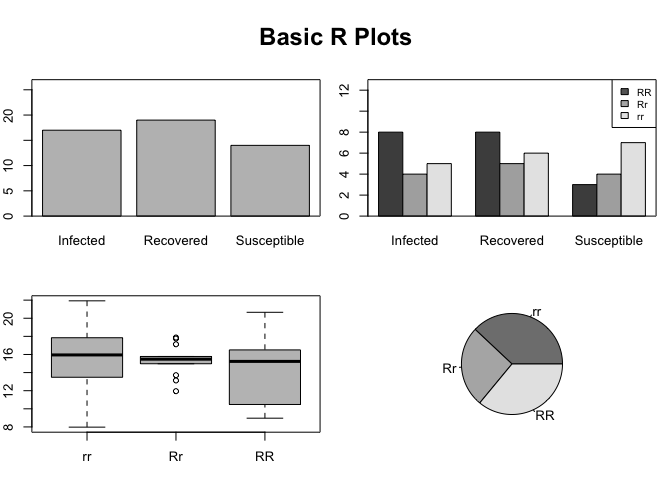
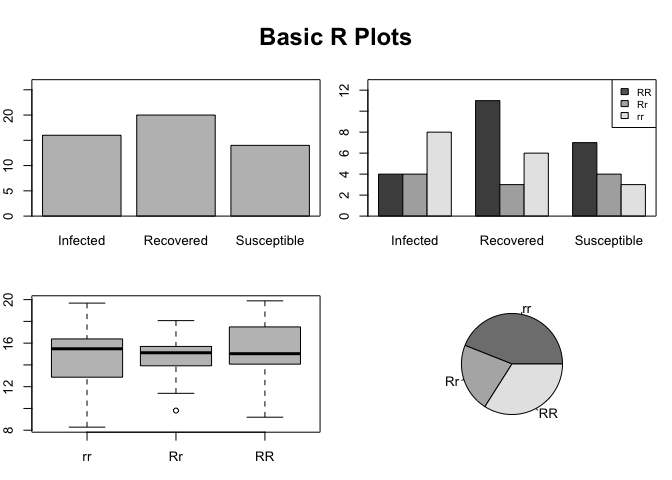
welcome back

diff --git a/Advanced_R/welcome_back.md b/Advanced_R/welcome_back.md
@@ -333,7 +333,7 @@ I
 
     ## InfStatus
     ##    Infected   Recovered Susceptible 
-    ##          17          19          14
+    ##          16          20          14
 
 ``` r
 # Now let's make a random sample of 3 genotypes (RR, Rr, and rr)
@@ -344,7 +344,7 @@ G
 
     ## Genotype
     ## rr Rr RR 
-    ## 19 13 18
+    ## 22 11 17
 
 ``` r
 #show genotype and infected status as a table 
@@ -353,9 +353,9 @@ table(Genotype, InfStatus)
 
     ##         InfStatus
     ## Genotype Infected Recovered Susceptible
-    ##       rr        8         8           3
-    ##       Rr        4         5           4
-    ##       RR        5         6           7
+    ##       rr        4        11           7
+    ##       Rr        4         3           4
+    ##       RR        8         6           3
 
 Note - We turned the sample data info a `factor` to make sure the factors aren't double indexed...here is what I mean...
 
@@ -365,16 +365,16 @@ test <- sample(c("Susceptible", "Infected", "Recovered"),size = 50, replace = TR
 test
 ```
 
-    ##  [1] "Recovered"   "Recovered"   "Susceptible" "Susceptible" "Infected"   
-    ##  [6] "Recovered"   "Infected"    "Infected"    "Infected"    "Infected"   
-    ## [11] "Recovered"   "Recovered"   "Infected"    "Infected"    "Susceptible"
-    ## [16] "Susceptible" "Recovered"   "Susceptible" "Infected"    "Infected"   
-    ## [21] "Recovered"   "Susceptible" "Recovered"   "Recovered"   "Susceptible"
-    ## [26] "Susceptible" "Recovered"   "Recovered"   "Susceptible" "Infected"   
-    ## [31] "Recovered"   "Susceptible" "Susceptible" "Recovered"   "Recovered"  
-    ## [36] "Recovered"   "Susceptible" "Infected"    "Susceptible" "Recovered"  
-    ## [41] "Recovered"   "Infected"    "Susceptible" "Recovered"   "Susceptible"
-    ## [46] "Infected"    "Recovered"   "Recovered"   "Recovered"   "Recovered"
+    ##  [1] "Susceptible" "Infected"    "Infected"    "Infected"    "Recovered"  
+    ##  [6] "Susceptible" "Recovered"   "Infected"    "Susceptible" "Susceptible"
+    ## [11] "Infected"    "Recovered"   "Infected"    "Infected"    "Susceptible"
+    ## [16] "Recovered"   "Infected"    "Susceptible" "Susceptible" "Susceptible"
+    ## [21] "Infected"    "Infected"    "Infected"    "Susceptible" "Susceptible"
+    ## [26] "Recovered"   "Recovered"   "Infected"    "Recovered"   "Susceptible"
+    ## [31] "Susceptible" "Recovered"   "Infected"    "Susceptible" "Susceptible"
+    ## [36] "Susceptible" "Infected"    "Recovered"   "Susceptible" "Recovered"  
+    ## [41] "Susceptible" "Susceptible" "Recovered"   "Susceptible" "Infected"   
+    ## [46] "Recovered"   "Recovered"   "Recovered"   "Infected"    "Susceptible"
 
 ``` r
 class(test)
@@ -388,14 +388,14 @@ test2 <- factor(sample(c("Susceptible", "Infected", "Recovered"),size = 50, repl
 test2
 ```
 
-    ##  [1] Recovered   Recovered   Infected    Infected    Recovered   Susceptible
-    ##  [7] Infected    Recovered   Susceptible Susceptible Recovered   Susceptible
-    ## [13] Infected    Infected    Infected    Recovered   Recovered   Infected   
-    ## [19] Infected    Recovered   Recovered   Recovered   Infected    Susceptible
-    ## [25] Susceptible Infected    Infected    Recovered   Recovered   Recovered  
-    ## [31] Susceptible Infected    Susceptible Susceptible Susceptible Recovered  
-    ## [37] Recovered   Susceptible Susceptible Infected    Recovered   Recovered  
-    ## [43] Recovered   Infected    Susceptible Recovered   Susceptible Susceptible
+    ##  [1] Infected    Susceptible Recovered   Infected    Susceptible Recovered  
+    ##  [7] Susceptible Susceptible Recovered   Recovered   Susceptible Recovered  
+    ## [13] Infected    Recovered   Infected    Recovered   Recovered   Infected   
+    ## [19] Infected    Recovered   Susceptible Infected    Recovered   Infected   
+    ## [25] Infected    Infected    Infected    Susceptible Infected    Susceptible
+    ## [31] Recovered   Susceptible Infected    Recovered   Infected    Susceptible
+    ## [37] Recovered   Infected    Recovered   Recovered   Infected    Infected   
+    ## [43] Recovered   Recovered   Infected    Infected    Susceptible Recovered  
     ## [49] Infected    Infected   
     ## Levels: Infected Recovered Susceptible
 
@@ -476,7 +476,7 @@ treedat
     ## 19    70.5
     ## 20   128.6
 
-`treedat` is a data frame. As a reminder, a data frame is essentially a 2-dimensional array that contains a *combination* of vectors (columns of data) that are of the class; integer, numeric, character. This is *different* from a matrix which can only contain *1 type* of data. In this case, we have some tree data that includes species of tree, season the data was collected, diameter of the tree, bark thickness, area of no bark, heartwood diameter, and sapwood diameter. ![](/Users/james/Documents/Github/geog473-673/documents/heartwoodvssapwood.jpeg)
+`treedat` is a data frame. As a reminder, a data frame is essentially a 2-dimensional array that contains a *combination* of vectors (columns of data) that are of the class; integer, numeric, character. This is *different* from a matrix which can only contain *1 type* of data. In this case, we have some tree data that includes species of tree, season the data was collected, diameter of the tree, bark thickness, area of no bark, heartwood diameter, and sapwood diameter. [![](welcome_back_files/figure-markdown_github/unnamed-chunk-9-1.png)](https://github.com/jsimkins2/geog473-673/tree/master/documents/heartwoodvssapwood.jpeg)
 
 Now, let's edit htis dataframe to the format we want it in. Then, let's plot a histogram of bark thickness and a boxplot of sapdepth by species.
 
